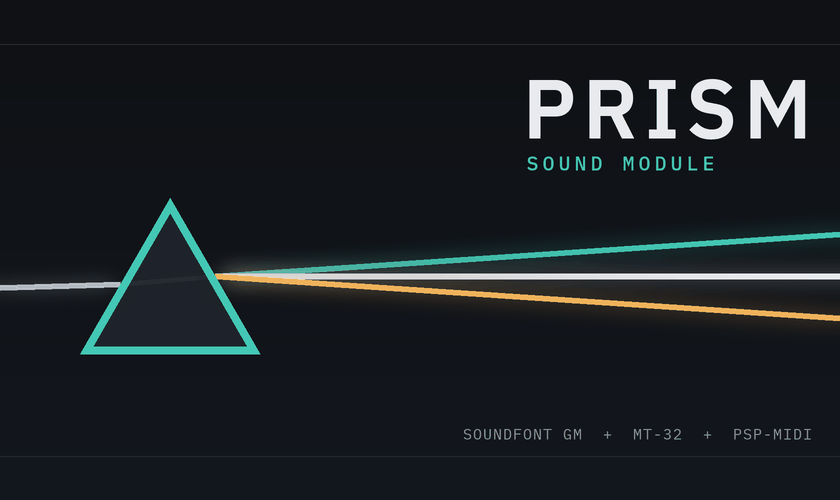
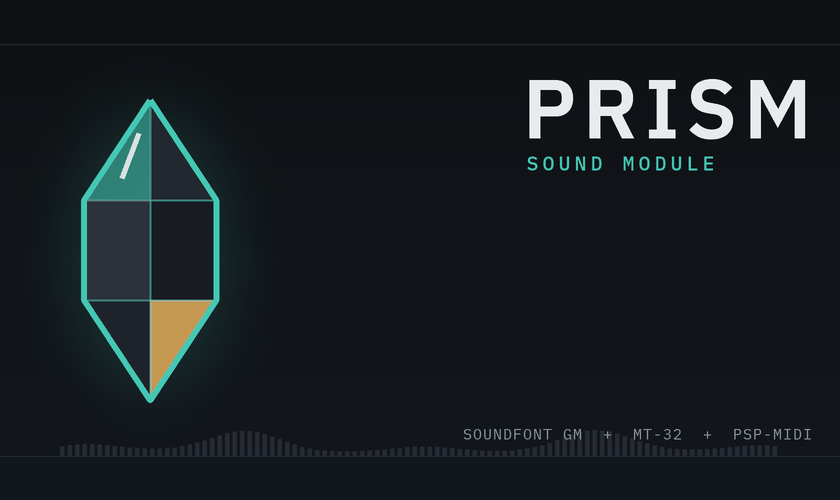
PRISM 0.25
A new mark: a faceted crystal on the icon, the background and the gate,
drawn by tools/mkart.py, which keeps a spectrum variant behind a switch.

Changed region(s): [[0.0, 0.18, 1.0, 0.81], [0.681, 0.87, 0.7429, 0.9], [0.2476, 0.87, 0.3095, 0.9]]

diff --git a/prism/tools/mkart.py b/prism/tools/mkart.py
@@ -2,19 +2,25 @@
 """Draw the LiveArea artwork: icon0.png (128 x 128), bg.png (840 x 500) and
 startup.png (280 x 158), in the panel's palette with the Plex fonts.
 
-Usage: mkart.py <fonts/src dir> <sce_sys dir> [preview.png]
+Usage: mkart.py <fonts/src dir> <sce_sys dir> [preview.png] [--style crystal|spectrum]
 Needs Pillow. The images are written as 8-bit palette PNGs.
 """
-import os, sys
+import os, sys, math
 from PIL import Image, ImageDraw, ImageFont, ImageFilter
 
 BG, PANEL, PANEL2, LINE = (15, 17, 20), (23, 26, 31), (30, 35, 43), (38, 43, 51)
 TEXT, TEXT2, GREY = (232, 234, 238), (184, 190, 200), (139, 146, 158)
 MINT, MINT2, AMBER = (67, 200, 181), (111, 220, 204), (240, 179, 91)
 
-fonts_dir = sys.argv[1]
-out_dir = sys.argv[2]
-preview = sys.argv[3] if len(sys.argv) > 3 else None
+args = [a for a in sys.argv[1:] if not a.startswith('--')]
+style = 'crystal'
+for a in sys.argv[1:]:
+    if a.startswith('--style'):
+        style = a.split('=', 1)[1] if '=' in a else sys.argv[sys.argv.index(a) + 1]
+        if style in args: args.remove(style)
+fonts_dir = args[0]
+out_dir = args[1]
+preview = args[2] if len(args) > 2 else None
 
 def font(name, px):
     return ImageFont.truetype(os.path.join(fonts_dir, name), px)
@@ -38,39 +44,54 @@ def tracked(draw, x, y, text, f, fill, spacing):
 def tracked_width(text, f, spacing):
     return sum(f.getlength(ch) + spacing for ch in text) - spacing
 
-def glow_line(base, p0, p1, colour, width, glow):
-    """a line with a soft halo, composited onto base (RGB)"""
+def glow(base, box, colour, alpha, blur):
     layer = Image.new('RGBA', base.size, (0, 0, 0, 0))
-    d = ImageDraw.Draw(layer)
-    d.line([p0, p1], fill=colour + (70,), width=glow)
-    layer = layer.filter(ImageFilter.GaussianBlur(glow / 2))
-    d = ImageDraw.Draw(layer)
-    d.line([p0, p1], fill=colour + (255,), width=width)
+    ImageDraw.Draw(layer).ellipse(box, fill=colour + (alpha,))
+    layer = layer.filter(ImageFilter.GaussianBlur(blur))
     base.paste(layer, (0, 0), layer)
 
-def prism(base, cx, cy, size, s, beam_from, fan_to, fan_spread):
-    """the mark: a triangle, a beam in from the left, three lines out to the right.
-    s is the supersampling factor; coordinates are in final pixels."""
+# ---- the marks -------------------------------------------------------------------
+def mark_crystal(base, cx, cy, h, s):
+    """a six-sided shard, lit from the left: mint on the top facet, amber at the foot"""
     S = lambda v: v * s
-    h = size * 0.866
-    apex = (S(cx), S(cy - h * 0.6))
-    left = (S(cx - size / 2), S(cy + h * 0.4))
-    right = (S(cx + size / 2), S(cy + h * 0.4))
-    # the entry point on the left face and the exit point on the right face
-    t_in, t_out = 0.55, 0.5
-    pin = (apex[0] + (left[0] - apex[0]) * t_in, apex[1] + (left[1] - apex[1]) * t_in)
-    pout = (apex[0] + (right[0] - apex[0]) * t_out, apex[1] + (right[1] - apex[1]) * t_out)
-    d = ImageDraw.Draw(base)
-    d.polygon([apex, left, right], fill=PANEL2)
-    # the beam in, and the path inside
-    glow_line(base, (S(beam_from), pin[1] + S(size * 0.02)), pin, TEXT2, max(1, int(S(size * 0.035))), int(S(size * 0.12)))
-    ImageDraw.Draw(base).line([pin, pout], fill=LINE, width=max(1, int(S(size * 0.03))))
-    # the fan out: mint above, white in the middle, amber below
-    for colour, k in ((MINT, -1), (TEXT, 0), (AMBER, 1)):
-        end = (S(fan_to), pout[1] + S(fan_spread) * k)
-        glow_line(base, pout, end, colour, max(1, int(S(size * 0.035))), int(S(size * 0.14)))
-    d = ImageDraw.Draw(base)
-    d.polygon([apex, left, right], outline=MINT, width=max(1, int(S(size * 0.045))))
+    w = h * 0.44
+    T, B = (S(cx), S(cy - h)), (S(cx), S(cy + h))
+    UL, UR = (S(cx - w), S(cy - h / 3)), (S(cx + w), S(cy - h / 3))
+    LL, LR = (S(cx - w), S(cy + h / 3)), (S(cx + w), S(cy + h / 3))
+    C1, C2 = (S(cx), S(cy - h / 3)), (S(cx), S(cy + h / 3))
+    glow(base, [S(cx - w * 1.6), S(cy - h * 1.1), S(cx + w * 1.6), S(cy + h * 1.1)], MINT, 40, S(h * 0.25))
+    d = ImageDraw.Draw(base, 'RGBA')
+    d.polygon([T, UL, C1], fill=MINT + (140,))
+    d.polygon([T, C1, UR], fill=(34, 40, 48, 255))
+    d.polygon([UL, LL, C2, C1], fill=(44, 50, 60, 255))
+    d.polygon([C1, C2, LR, UR], fill=(24, 28, 34, 255))
+    d.polygon([LL, B, C2], fill=(30, 35, 43, 255))
+    d.polygon([C2, B, LR], fill=AMBER + (205,))
+    thin = max(1, int(S(h * 0.014)))
+    for p, q in ((T, B), (UL, UR), (LL, LR)):
+        d.line([p, q], fill=MINT2 + (120,), width=thin)
+    d.line([T, UR, LR, B, LL, UL, T], fill=MINT + (255,), width=max(1, int(S(h * 0.04))), joint='curve')
+    # the glint on the lit facet
+    d.line([(S(cx - w * 0.42), S(cy - h * 0.48)), (S(cx - w * 0.16), S(cy - h * 0.78))], fill=TEXT + (230,), width=max(1, int(S(h * 0.035))))
+
+def mark_spectrum(base, cx, cy, h, s):
+    """eleven bars in a diamond silhouette, mint through white to amber"""
+    S = lambda v: v * s
+    n = 11
+    bw, gap = h * 0.11, h * 0.07
+    total = n * bw + (n - 1) * gap
+    x0 = cx - total / 2
+    glow(base, [S(cx - total * 0.7), S(cy - h * 1.1), S(cx + total * 0.7), S(cy + h * 1.1)], MINT, 36, S(h * 0.25))
+    d = ImageDraw.Draw(base, 'RGBA')
+    for i in range(n):
+        env = 1.0 - abs(i - 5) / 6.0
+        bh = h * (0.28 + 0.72 * env)
+        x = x0 + i * (bw + gap)
+        colour = MINT if i < 4 else TEXT if i < 7 else AMBER
+        d.rounded_rectangle([S(x), S(cy - bh), S(x + bw), S(cy + bh)], radius=S(bw / 2), fill=colour + (255,))
+
+def mark(base, cx, cy, h, s):
+    (mark_crystal if style == 'crystal' else mark_spectrum)(base, cx, cy, h, s)
 
 def finish(im, s, path):
     im = im.resize((im.width // s, im.height // s), Image.LANCZOS)
@@ -79,13 +100,24 @@ def finish(im, s, path):
     im.save(path, optimize=True)
     return im
 
+def strip(base, s, y, x0, x1, count, height):
+    """a quiet meter strip along a hairline"""
+    d = ImageDraw.Draw(base, 'RGBA')
+    step = (x1 - x0) / count
+    for i in range(count):
+        t = i / count
+        v = 0.5 + 0.5 * math.sin(t * 19.0) * math.cos(t * 7.3 + 1.0)
+        bh = height * (0.15 + 0.85 * v * v)
+        x = x0 + i * step
+        d.rectangle([x * s, (y - bh) * s, (x + step * 0.55) * s, y * s], fill=LINE + (255,))
+
 # ---- the icon ----------------------------------------------------------------
 def make_icon(path):
     s = 4
     im = gradient(128 * s, 128 * s, PANEL, BG)
     d = ImageDraw.Draw(im)
     d.rounded_rectangle([3 * s, 3 * s, 125 * s, 125 * s], radius=22 * s, outline=LINE, width=2 * s)
-    prism(im, 56, 66, 64, s, beam_from=8, fan_to=122, fan_spread=18)
+    mark(im, 64, 64, 44 if style == 'crystal' else 38, s)
     return finish(im, s, path)
 
 # ---- the gate ------------------------------------------------------------------
@@ -94,7 +126,7 @@ def make_startup(path):
     im = gradient(280 * s, 158 * s, PANEL2, PANEL)
     d = ImageDraw.Draw(im)
     d.rectangle([0, 0, 280 * s - 1, 158 * s - 1], outline=LINE, width=2 * s)
-    prism(im, 64, 82, 62, s, beam_from=10, fan_to=118, fan_spread=15)
+    mark(im, 62, 79, 50 if style == 'crystal' else 42, s)
     f1 = font('IBMPlexSans-SemiBold.ttf', 40 * s)
     f2 = font('IBMPlexMono-Medium.ttf', 12 * s)
     tracked(d, 124 * s, 46 * s, 'PRISM', f1, TEXT, 2 * s)
@@ -107,12 +139,10 @@ def make_bg(path):
     s = 2
     im = gradient(840 * s, 500 * s, BG, (19, 23, 30))
     d = ImageDraw.Draw(im)
-    # faint hairlines echoing the panel
     for y in (44, 456):
         d.line([(0, y * s), (840 * s, y * s)], fill=LINE, width=s)
-    # the mark on the left, its fan reaching across behind the gate
-    prism(im, 170, 292, 180, s, beam_from=0, fan_to=840, fan_spread=42)
-    # the wordmark, top right, clear of the gate
+    strip(im, s, 456, 60, 780, 96, 26)
+    mark(im, 150, 250, 150 if style == 'crystal' else 120, s)
     f1 = font('IBMPlexSans-SemiBold.ttf', 84 * s)
     f2 = font('IBMPlexMono-Medium.ttf', 20 * s)
     f3 = font('IBMPlexMono-Regular.ttf', 15 * s)
@@ -120,7 +150,8 @@ def make_bg(path):
     x = 812 * s - w
     tracked(d, x, 52 * s, 'PRISM', f1, TEXT, 6 * s)
     tracked(d, x + 4 * s, 150 * s, 'SOUND MODULE', f2, MINT, 4 * s)
-    tracked(d, 812 * s - tracked_width('SOUNDFONT GM  +  MT-32  +  PSP-MIDI', f3, s), 424 * s, 'SOUNDFONT GM  +  MT-32  +  PSP-MIDI', f3, GREY, s)
+    line = 'SOUNDFONT GM  +  MT-32  +  PSP-MIDI'
+    tracked(d, 812 * s - tracked_width(line, f3, s), 424 * s, line, f3, GREY, s)
     return finish(im, s, path)
 
 icon = make_icon(os.path.join(out_dir, 'icon0.png'))
@@ -147,6 +178,6 @@ if preview:
     ImageDraw.Draw(p).rectangle([280, 171, 559, 328], outline=LINE)
     p.paste(icon.convert('RGB'), (24, 512))
     f = font('IBMPlexMono-Regular.ttf', 14)
-    ImageDraw.Draw(p).text((168, 560), 'icon0.png 128 x 128   bg.png 840 x 500   startup.png 280 x 158 (the gate, in the middle)', font=f, fill=GREY)
+    ImageDraw.Draw(p).text((168, 560), style + ': icon0 128 x 128   bg 840 x 500   startup 280 x 158 (the gate)', font=f, fill=GREY)
     p.save(preview)
-print('icon', icon.size, icon.mode, 'gate', gate.size, gate.mode, 'bg', bg.size, bg.mode)
+print(style, 'icon', icon.size, icon.mode, 'gate', gate.size, gate.mode, 'bg', bg.size, bg.mode)
